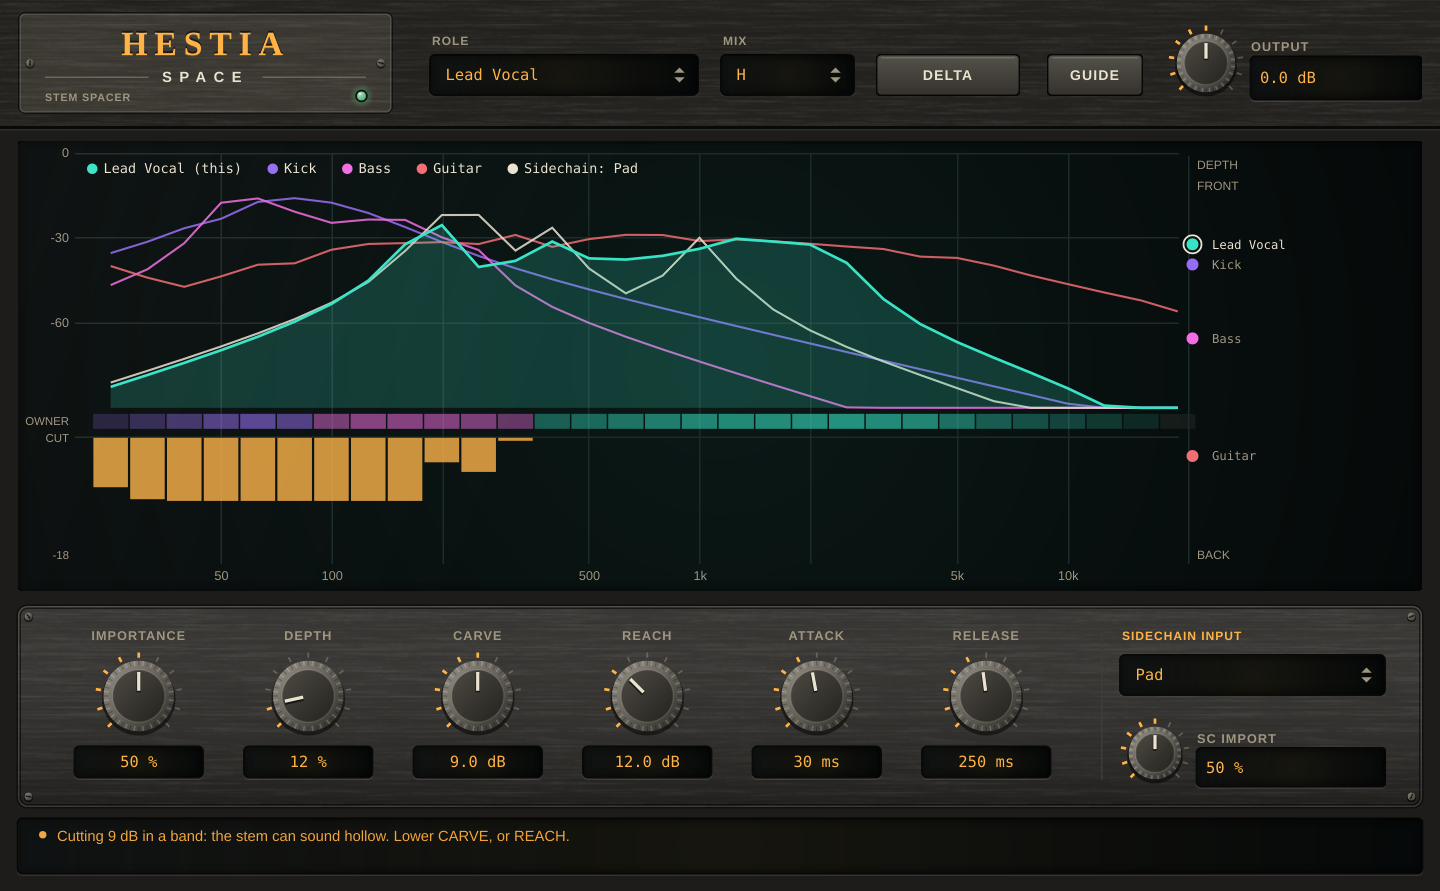
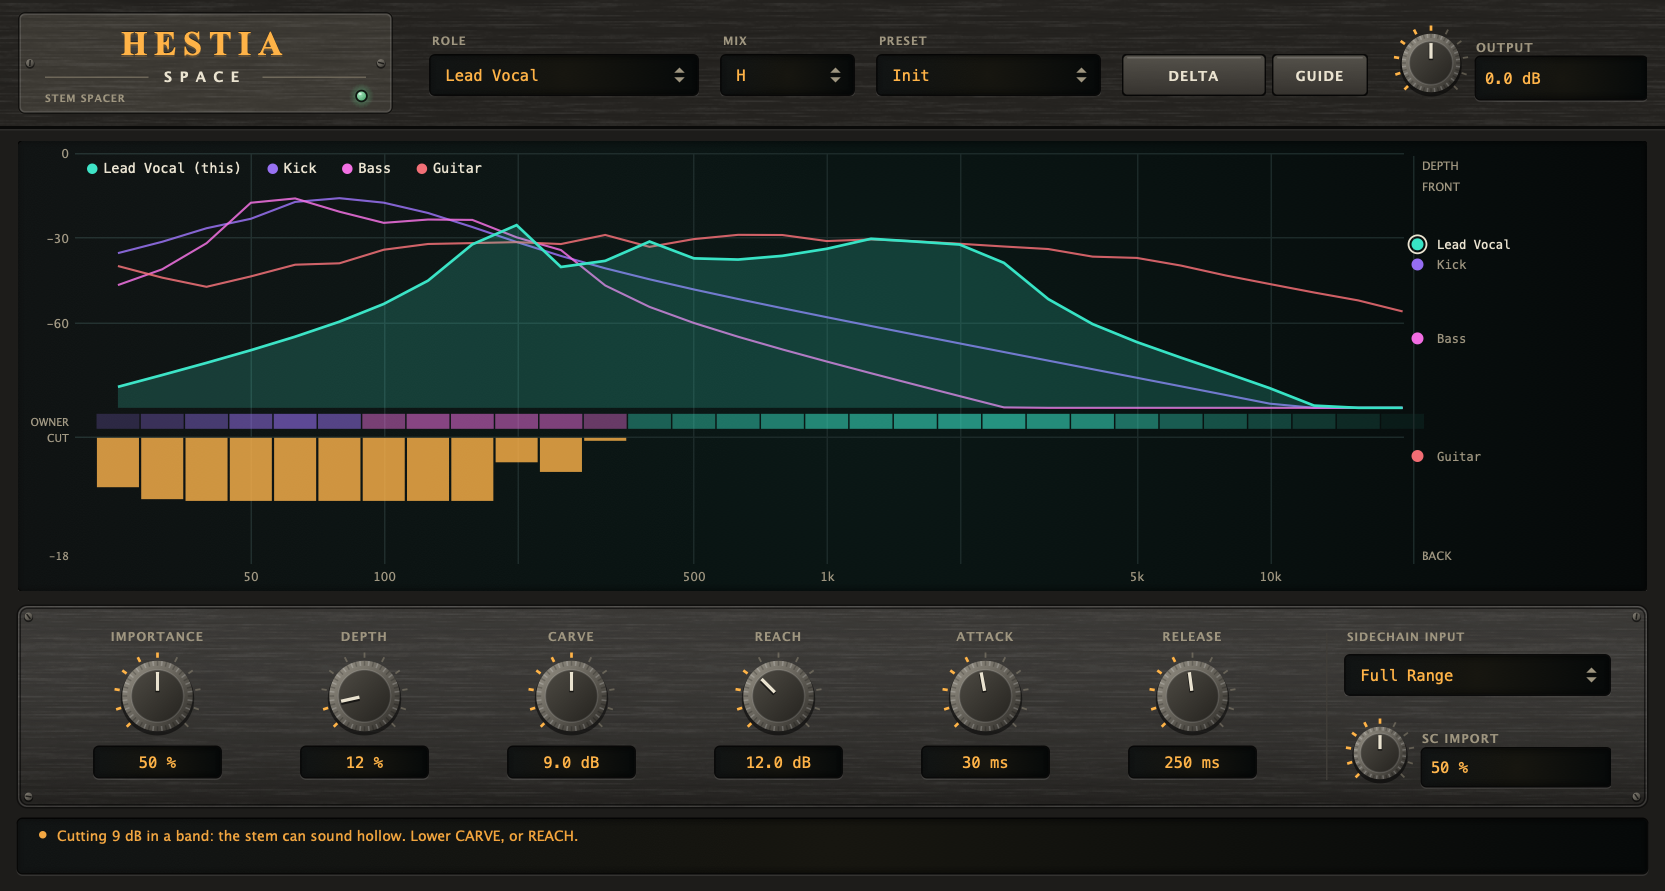
Hestia: ten presets, one for each kind of stem; the editor is wider
Kick, Bass, Drum Bus, Lead Vocal, Backing Vocals, Guitars, Lead Synth, Pads and Strings, FX and Ambience: a role, an importance, a cut and a depth. The mix letter, the sidechain's role and importance and OUTPUT are kept. The design width goes from 960 to 1110 to make room in the header.

diff --git a/plugins/hestia/Tests/UiCheck.cpp b/plugins/hestia/Tests/UiCheck.cpp
@@ -298,5 +298,51 @@ int main()
                "the GUIDE button is there and its text says what the plugin is not for");
     }
 
+    // Presets: each applies, has a name and a one-line purpose, the chosen one is kept with the session, and the box is in the header.
+    {
+        HestiaProcessor q;
+        q.setPlayConfigDetails (2, 2, 48000.0, 512);
+        q.prepareToPlay (48000.0, 512);
+        bool all = q.getNumPrograms() == (int) presets().size() && q.getNumPrograms() >= 6;
+        for (int i = 0; i < q.getNumPrograms(); ++i)
+        {
+            q.setCurrentProgram (i);
+            const auto len = std::strlen (presets()[(size_t) i].purpose);
+            all = all && q.getProgramName (i).isNotEmpty() && q.getCurrentProgram() == i && len > 20 && len <= 140;
+        }
+        check (all, fmt ("all %d presets apply, have a name and a one-line purpose", q.getNumPrograms()));
+        const auto indexOf = [&] (const char* name)
+        {
+            for (int i = 0; i < q.getNumPrograms(); ++i)
+                if (q.getProgramName (i) == name)
+                    return i;
+            check (false, std::string ("a preset called ") + name);
+            return 0;
+        };
+        const auto raw = [&] (const juce::String& pid) { return q.apvts.getRawParameterValue (pid)->load(); };
+        setValue (q.apvts, id::mix, 3.0f);
+        setValue (q.apvts, id::out, -2.0f);
+        q.setCurrentProgram (indexOf ("Pads and Strings"));
+        check ((int) raw (id::role) == 8 && std::fabs (raw (id::distance) - 55.0f) < 0.5f && std::fabs (raw (id::importance) - 25.0f) < 0.5f, "Pads and Strings: the pad role, importance 25%, DEPTH 55%");
+        check ((int) raw (id::mix) == 3 && std::fabs (raw (id::out) + 2.0f) < 0.01f, "the mix letter and OUTPUT are kept by a preset");
+        q.setCurrentProgram (indexOf ("Kick"));
+        check ((int) raw (id::role) == 0 && std::fabs (raw (id::distance)) < 0.5f, "Kick: the kick role, and DEPTH back at the front (a preset does not inherit the last one)");
+        q.setCurrentProgram (0);
+        check ((int) raw (id::role) == 12 && std::fabs (raw (id::importance) - 50.0f) < 0.5f && std::fabs (raw (id::carve) - 6.0f) < 0.05f, "Init is the defaults (Full Range, 50%, 6 dB)");
+        const int chosen = indexOf ("Lead Vocal");
+        q.setCurrentProgram (chosen);
+        check ((int) raw (id::role) == 4 && (int) raw (id::mix) == 3, "Lead Vocal: the lead vocal role, in the same mix");
+        juce::MemoryBlock saved;
+        q.getStateInformation (saved);
+        HestiaProcessor other;
+        other.setStateInformation (saved.getData(), (int) saved.getSize());
+        check (other.getCurrentProgram() == chosen, "the chosen preset is saved with the session");
+        std::unique_ptr<juce::AudioProcessorEditor> holder (q.createEditor());
+        auto& editor = ui::innerOf<HestiaEditor> (*holder);
+        editor.setVisible (true);
+        check (editor.presetBox.getNumItems() == q.getNumPrograms() && editor.presetBox.getSelectedId() == chosen + 1, "the editor's preset box lists the presets and shows the current one");
+        check (editor.presetBox.getRight() < editor.getWidth() && ! editor.presetBox.getBounds().intersects (editor.guideButton.getBounds()), "the preset box fits the header beside the GUIDE button");
+    }
+
     return test::finish ("UI CHECK");
 }

diff --git a/plugins/hestia/Source/Presets.h b/plugins/hestia/Source/Presets.h
@@ -1,0 +1,43 @@
+// SPDX-License-Identifier: AGPL-3.0-or-later
+// Copyright (C) 2026 The Pantheon authors
+
+#pragma once
+
+#include "Parameters.h"
+#include <pantheon/ui/Presets.h>
+
+// A starting point for each kind of stem: its role and how much it matters, how deep the cut may go and how far back it sits. A preset leaves the mix letter, the
+// sidechain's role and importance, and OUTPUT alone (they belong to the session, not to the stem); what it does not list is back at its default. The roles are
+// rules of thumb: move IMPORTANCE by ear.
+namespace hestia
+{
+inline const std::vector<ui::Preset>& presets()
+{
+    // The role is a choice: 0 Kick, 1 Bass, 2 Drums, 3 Hats / Cymbals, 4 Lead Vocal, 5 Backing Vocal, 6 Guitar, 7 Keys, 8 Pad, 9 Lead Synth, 10 Strings, 11 FX, 12 Full Range.
+    static const std::vector<ui::Preset> list
+    {
+        { "Init", {}, "The defaults: the role Hestia opens with, an importance of 50%, a cut of 6 dB, at the front. Pick the role, then the rest." },
+        { "Kick", { { id::role, 0.0f }, { id::importance, 70.0f }, { id::carve, 4.0f } },
+          "The kick owns the low end: the stems that share it give way to it. Lower IMPORTANCE if the bass should win the sub instead." },
+        { "Bass", { { id::role, 1.0f }, { id::importance, 65.0f }, { id::carve, 5.0f } },
+          "The bass owns the low-mids under the kick's thump. Two stems with the same role and importance leave each other alone." },
+        { "Drum Bus", { { id::role, 2.0f }, { id::importance, 60.0f }, { id::carve, 5.0f } },
+          "A drum group: a broad claim on the lows and the attack. Put the kick and the snare on their own roles if you have them apart." },
+        { "Lead Vocal", { { id::role, 4.0f }, { id::importance, 80.0f }, { id::carve, 3.0f } },
+          "Up front: the other stems make room at the voice's presence, and the voice is hardly cut itself." },
+        { "Backing Vocals", { { id::role, 5.0f }, { id::importance, 35.0f }, { id::carve, 9.0f }, { id::distance, 35.0f } },
+          "Tucked behind the lead: it gives way to the voice and sits a little back (DEPTH 35%)." },
+        { "Guitars", { { id::role, 6.0f }, { id::importance, 45.0f }, { id::carve, 7.0f }, { id::distance, 20.0f } },
+          "A rhythm part behind the vocal and the drums: gives way at the mids and sits a little back." },
+        { "Lead Synth", { { id::role, 9.0f }, { id::importance, 60.0f }, { id::carve, 5.0f }, { id::distance, 10.0f } },
+          "A hook that has to be heard: a claim on the mids, cut little. Raise IMPORTANCE if it fights the vocal." },
+        { "Pads and Strings", { { id::role, 8.0f }, { id::importance, 25.0f }, { id::carve, 10.0f }, { id::distance, 55.0f } },
+          "Fills the background: gives way to everything and sits well back (DEPTH 55%). For pads, strings and ambience." },
+        { "FX and Ambience", { { id::role, 11.0f }, { id::importance, 20.0f }, { id::carve, 12.0f }, { id::reach, 18.0f }, { id::distance, 65.0f } },
+          "Risers, sweeps, room sounds: they give way almost everywhere and sit far back. DEPTH is not a reverb: it moves the dry sound back." },
+    };
+    return list;
+}
+
+inline bool keepsParameter (const juce::String& pid) { return pid == id::mix || pid == id::scRole || pid == id::scImportance || pid == id::out; }
+} // namespace hestia

diff --git a/plugins/hestia/Source/PluginEditor.cpp b/plugins/hestia/Source/PluginEditor.cpp
@@ -8,7 +8,7 @@ namespace hw = ui::hw;
 
 namespace
 {
-constexpr int kWidth = 960;
+constexpr int kWidth = 1110;
 constexpr int headerHeight = 84;
 constexpr int viewHeight = 300;
 constexpr int knobPanelHeight = 134;
@@ -36,6 +36,7 @@ HestiaEditor::HestiaEditor (HestiaProcessor& p)
       release (p.apvts, id::release, "RELEASE", "How fast a cut goes out when the other stem stops.", ui::Knob::Layout::below),
       outKnob (p.apvts, id::out, "OUTPUT", "Output gain, after everything."),
       scImportance (p.apvts, id::scImportance, "SC IMPORT", "How much the track on the sidechain matters, as IMPORTANCE does for a stem.", ui::Knob::Layout::beside),
+      presetBox (p, presets(), "The mix letter, the sidechain's role and importance, and OUTPUT are kept."),
       view (p),
       proc (p)
 {
@@ -44,7 +45,7 @@ HestiaEditor::HestiaEditor (HestiaProcessor& p)
     deltaButton.setTooltip ("Listen to only what Hestia changes in this stem: the stem as it comes out minus as it came in (the cut and the depth). Not saved with the session.");
     deltaButton.onClick = [this] { proc.engine.deltaOn = ! proc.engine.deltaOn.load(); };
     for (auto* c : std::initializer_list<juce::Component*> { &view, &roleBox, &mixBox, &scRoleBox, &importance, &distance, &carve, &reach, &attack, &release, &outKnob, &scImportance,
-                                                              &deltaButton, &guideButton })
+                                                              &deltaButton, &presetBox, &guideButton })
         addAndMakeVisible (*c);
 
     startTimerHz (kTimerHz);
@@ -71,6 +72,9 @@ void HestiaEditor::resized()
     row.removeFromLeft (14);
     mixLabel = { row.getX() + 2, row.getY() - 15, 120, 12 };
     mixBox.setBounds (row.removeFromLeft (90));
+    row.removeFromLeft (14);
+    presetLabel = { row.getX() + 2, row.getY() - 15, 120, 12 };
+    presetBox.setBounds (row.removeFromLeft (150));
     row.removeFromLeft (14);
     deltaButton.setBounds (row.removeFromLeft (96));
     guideButton.setBounds (row.removeFromRight (64));
@@ -114,6 +118,7 @@ void HestiaEditor::paint (juce::Graphics& g)
     g.fillAll (colours::background);
     hw::drawHeaderPlate (g, getLocalBounds().removeFromTop (headerHeight).toFloat());
     hw::drawNameplate (g, nameplate, gui::kProjectWord, gui::kPluginWord, "Stem spacer", inLevel > 0.001f, 25.0f);
+    hw::drawLabel (g, "Preset", presetLabel, juce::Justification::left, colours::dim, 9.0f);
     hw::drawLabel (g, "Role", roleLabel, juce::Justification::left, colours::dim, 9.0f);
     hw::drawLabel (g, "Mix", mixLabel, juce::Justification::left, colours::dim, 9.0f);
     hw::drawModule (g, knobPanel.toFloat());
@@ -131,5 +136,6 @@ void HestiaEditor::timerCallback()
     for (const auto& l : proc.engine.ownLevel)
         level = std::fmax (level, l.load (std::memory_order_relaxed));
     inLevel = level > -80.0f ? 1.0f : 0.0f;
+    presetBox.sync();
     repaint();
 }

diff --git a/plugins/hestia/Source/PluginProcessor.h b/plugins/hestia/Source/PluginProcessor.h
@@ -4,6 +4,7 @@
 #pragma once
 
 #include "Parameters.h"
+#include "Presets.h"
 #include <juce_audio_processors/juce_audio_processors.h>
 
 class HestiaProcessor : public juce::AudioProcessor
@@ -24,10 +25,10 @@ public:
     bool producesMidi() const override { return false; }
     double getTailLengthSeconds() const override { return 0.0; }
 
-    int getNumPrograms() override { return 1; }
-    int getCurrentProgram() override { return 0; }
-    void setCurrentProgram (int) override {}
-    const juce::String getProgramName (int) override { return {}; }
+    int getNumPrograms() override { return programs.count(); }
+    int getCurrentProgram() override { return programs.current(); }
+    void setCurrentProgram (int index) override { programs.set (index); }
+    const juce::String getProgramName (int index) override { return programs.name (index); }
     void changeProgramName (int, const juce::String&) override {}
 
     void getStateInformation (juce::MemoryBlock&) override;
@@ -35,6 +36,7 @@ public:
 
     hestia::Engine engine; // makes its place on the shared bus when the instance is made and gives it back when it goes
     juce::AudioProcessorValueTreeState apvts;
+    ui::Programs programs { apvts, hestia::presets(), hestia::keepsParameter }; // after apvts
     // Whether the host handed the last block a sidechain: the editor says so.
     std::atomic<bool> sidechainConnected { false };
 

diff --git a/plugins/hestia/Source/PluginEditor.h b/plugins/hestia/Source/PluginEditor.h
@@ -24,6 +24,7 @@ public:
     ui::Choice roleBox, mixBox, scRoleBox;
     ui::Knob importance, distance, carve, reach, attack, release, outKnob, scImportance;
     juce::TextButton deltaButton { "DELTA" };
+    ui::PresetBox presetBox;
     ui::GuideButton guideButton { hestia::guideTitle(), hestia::guideText() };
     hestia::gui::SpaceView view;
     juce::TextButton& guide() noexcept { return guideButton; }
@@ -36,7 +37,7 @@ private:
     HestiaProcessor& proc;
     HardwareLookAndFeel look;
     juce::TooltipWindow tooltips { this, 600 };
-    juce::Rectangle<int> nameplate, roleLabel, mixLabel, scPanel, scLabel, knobPanel, noteStrip;
+    juce::Rectangle<int> nameplate, presetLabel, roleLabel, mixLabel, scPanel, scLabel, knobPanel, noteStrip;
     float inLevel = 0.0f;
 
     JUCE_DECLARE_NON_COPYABLE_WITH_LEAK_DETECTOR (HestiaEditor)

diff --git a/plugins/hestia/Source/PluginProcessor.cpp b/plugins/hestia/Source/PluginProcessor.cpp
@@ -63,6 +63,7 @@ void HestiaProcessor::processBlock (juce::AudioBuffer<float>& buffer, juce::Midi
 
 void HestiaProcessor::getStateInformation (juce::MemoryBlock& dest)
 {
+    programs.saveTo (apvts.state);
     if (auto xml = apvts.copyState().createXml())
         copyXmlToBinary (*xml, dest);
 }
@@ -71,7 +72,10 @@ void HestiaProcessor::setStateInformation (const void* data, int size)
 {
     if (auto xml = getXmlFromBinary (data, size))
         if (xml->hasTagName (apvts.state.getType()))
+        {
             apvts.replaceState (juce::ValueTree::fromXml (*xml));
+            programs.loadFrom (apvts.state);
+        }
 }
 
 juce::AudioProcessorEditor* HestiaProcessor::createEditor() { return new ui::ScaledEditor<HestiaEditor> (*this, apvts.state, *this); }

diff --git a/plugins/hestia/CLAUDE.md b/plugins/hestia/CLAUDE.md
@@ -15,10 +15,10 @@ cmake --build build --target HestiaUiCheck && ./build/HestiaUiCheck_artefacts/Re
 cmake --build build --target HestiaSnapshot && ./build/HestiaSnapshot_artefacts/Release/HestiaSnapshot docs/screenshot.png
 ```
 
-- Building the plugin targets does **not** install them (`HESTIA_INSTALL_AFTER_BUILD`, off by default).
+- Building the plugin targets does **not** install them (`HESTIA_INSTALL_AFTER_BUILD`, off by default; a build folder configured with it ON does: check the cache). `scripts/build.sh hestia` is the way to build and check (see the repository's CLAUDE.md).
 - `HestiaTests`, `UiCheck` and `Snapshot` are `EXCLUDE_FROM_ALL`; build them by name. `Tests.cpp` has no JUCE in it: it includes only `Source/DSP`
   and `shared/dsp`'s Biquad.h, so it also compiles with `g++ -std=c++20 -I Source -I Tests -I ../../shared/dsp/include Tests/Tests.cpp`.
-- There is no `HostCheck`; the plugin has not been built on macOS or run through `auval` (the repository's CLAUDE.md lists it under "Not yet in line").
+- There is no `HostCheck` and no macOS CI job; the plugin builds on macOS and `auval -v` passes for the AU (by hand, 2026-11-13; the repository's CLAUDE.md lists the rest under "Not yet in line").
 - Definition of done for a DSP change: `HestiaTests` passes **and** the numbers the README quotes still match its output.
 - Definition of done for a UI or parameter change: `UiCheck` passes and `docs/screenshot.png` is regenerated and looked at.
 
@@ -32,6 +32,7 @@ Source/DSP/        no GUI dependencies, no JUCE; covered by Tests/Tests.cpp
   Carver.h           the cut: thirty peaking bells in series, and the inverse of their overlap
   Depth.h            the distance cues (cuesFor(): air, level, width, room) and EarlyReflections (eight taps up to 37 ms)
   Engine.h           the signal path and the rule (pressureOn()), the tick, the sidechain stem, the monitor, the output gain
+Source/Presets.h     the presets (settings, names, one-line purposes); the mechanism is `shared/ui/.../Presets.h`
 Source/Advice.h      the notes of the strip under the knobs and the GUIDE text; plain C++, no JUCE
 Source/Parameters.h  parameter layout, readParams()                                                     <- the single source of truth for parameters
 Source/Plugin*.{h,cpp}, Source/UI/   JUCE wrapper and editor (the look is `shared/ui`); `UI/SpaceView.h` is the display
@@ -101,6 +102,9 @@ on a band's centre reads `20 log10 A`: every threshold and the -80/-60 dB presen
 **Monitoring is not state.** DELTA lives in `Engine::deltaOn` (an atomic), not in a parameter, and the editor ends it in its destructor. It fades
 over a tick through `deltaMix`; the output is `wet - deltaMix x dry`, `wet` being the stem after the cut and the depth.
 
+**Presets** are `ui::Preset`s in `Source/Presets.h` (the settings as real values, a name, a one-line purpose of at most 140 characters); the processor's `ui::Programs` applies them (every parameter that the plugin's `keepsParameter` does not claim goes back to its default first, so a preset does not inherit the last one) and keeps the chosen index in the session's state
+(`program`); the editor's `ui::PresetBox` lists them and `sync()`s with the host. A new parameter needs thinking about in each preset: it goes back to its default unless the preset lists it. UiCheck pins that every preset applies, what one specific preset sets, what is kept, and that the box fits the header.
+
 **Parameters.** Ids (`hestia::id`) are stored in sessions and automation: never rename or remove one once a release has them (`carve` was `depth` before the Depth knob existed and the plugin had not been released; the user-facing names are Carve for the cut and Depth for the distance, the ids `carve` and `distance`). All are `ParameterID` version 1; a new one needs
 a higher version, an entry in `readParams()` and a place in the editor. The order of the roles (`Role`, `roleNames()`) and of the mixes (`mixNames`: the
 index is the group, 0 off) is stored in sessions: add at the end, never reorder.
@@ -123,7 +127,7 @@ index is the group, 0 off) is stored in sessions: add at the end, never reorder.
   rest to Off, or they would see each other. `HestiaTests` builds its own `Bus` for each scenario.
 - A reader that gathers *every* live stem of a group also gets the ones other tests published: use a `Bus` of your own in DSP tests.
 - In an editor constructor call `setSize()` **last**.
-- `createEditor()` returns a `ui::ScaledEditor<HestiaEditor>` (shared/ui Scaled.h), not the editor: the window opens at 70% and scales. Tests and snapshots reach the editor with `ui::innerOf<HestiaEditor> (*processor.createEditor())`; the editor's own size is its design size, the one it sets in its constructor.
+- `createEditor()` returns a `ui::ScaledEditor<HestiaEditor>` (shared/ui Scaled.h), not the editor: the window opens at 100% and scales. Tests and snapshots reach the editor with `ui::innerOf<HestiaEditor> (*processor.createEditor())`; the editor's own size is its design size, the one it sets in its constructor.
 - `ui::Choice` and `ui::Toggle` are bound to one parameter for good.
 
 ## Conventions

diff --git a/plugins/hestia/README.md b/plugins/hestia/README.md
@@ -26,6 +26,7 @@ room for all of them. (CMake targets, namespaces and plugin codes use the short 
 | **Attack / Release** | How fast a cut comes in (30 ms) and goes out (250 ms). |
 | **Output** | Gain after the cut. |
 | **Delta** | Listen to what Hestia changes in the stem (its output minus its input: the cut and the depth). Monitoring, not saved with the session. |
+| **Presets** | Ten starting points, one for each kind of stem (Init, Kick, Bass, Drum Bus, Lead Vocal, Backing Vocals, Guitars, Lead Synth, Pads and Strings, FX and Ambience): a role, an importance, a cut and a depth. The mix letter, the sidechain's role and importance, and OUTPUT are kept. |
 
 The display (above, all the stems' levels, in the colour of each, and the sidechain as a white line; the strip, who owns each band; the amber bars, the cut
 this stem is making now; on the right, the depth map: where each stem of the mix sits from the front to the back) is what the plugin reads and decides,
